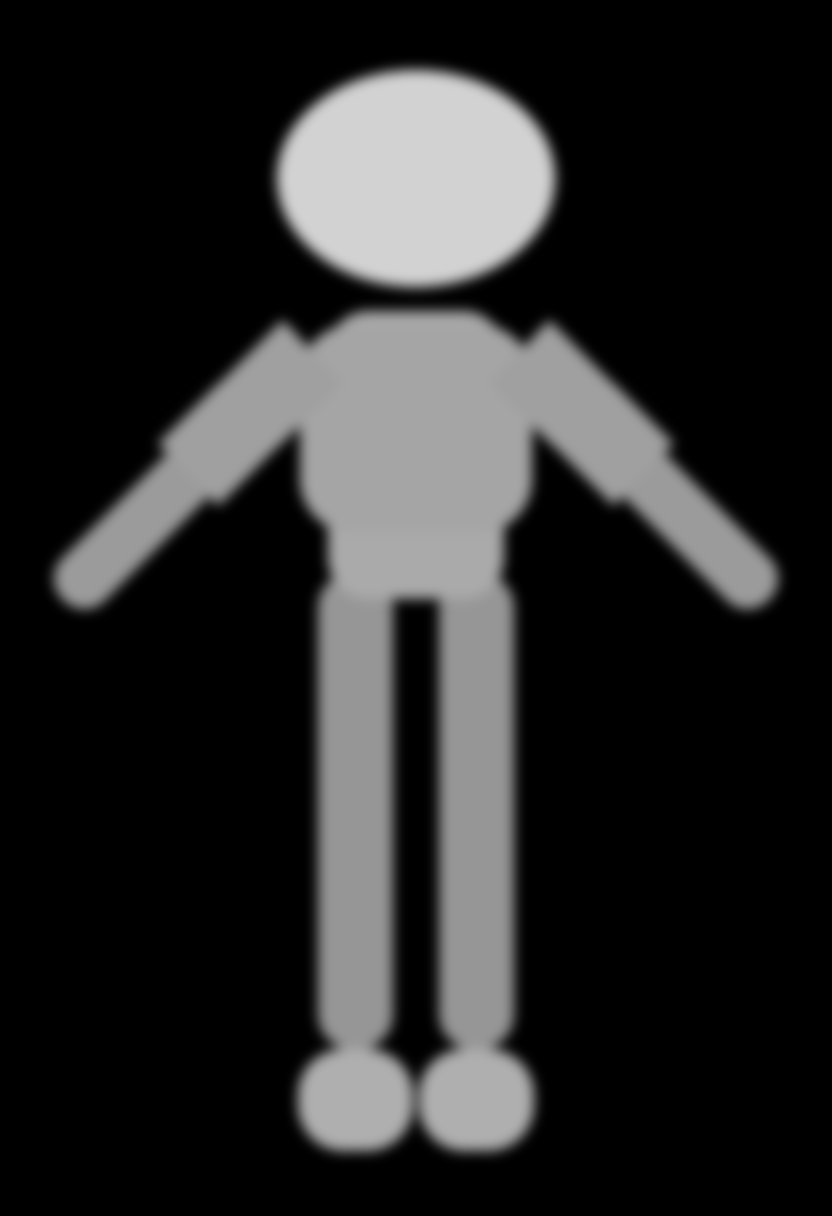
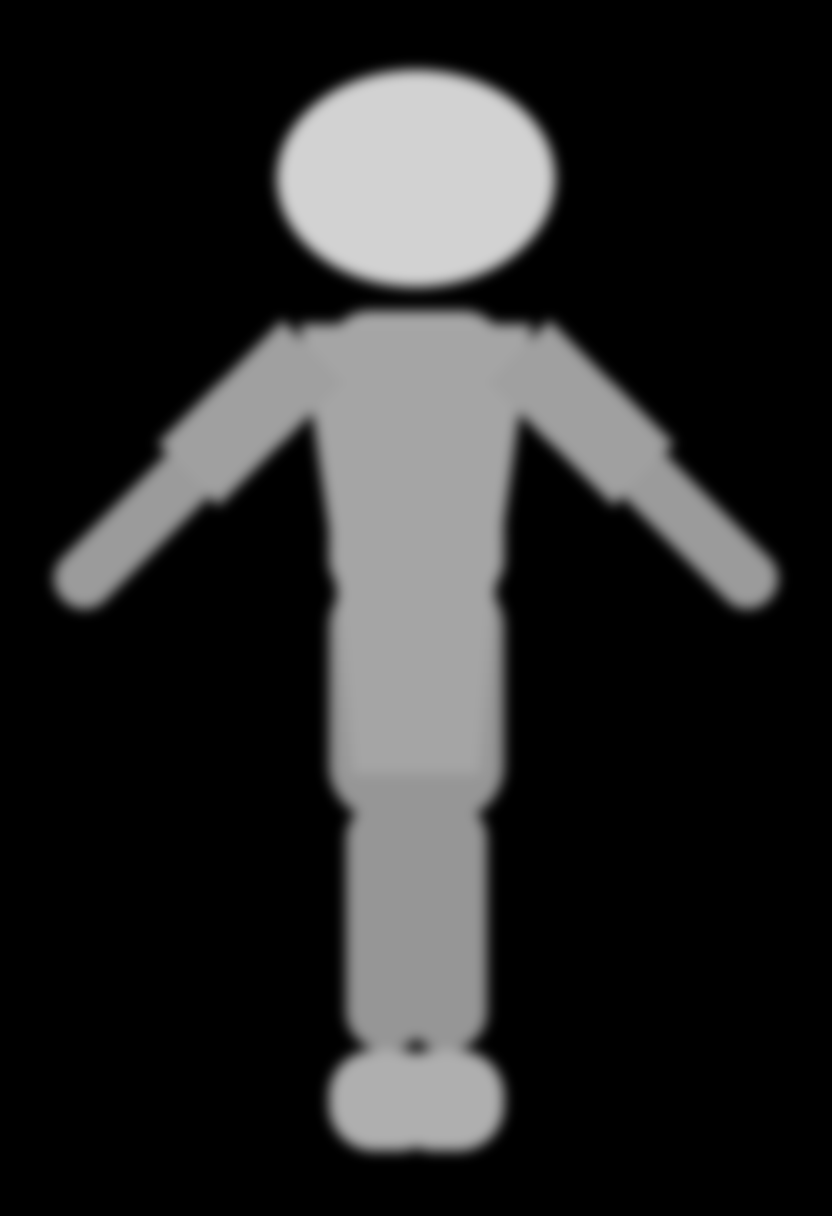
fix(ene): 측면 3/4 뷰 재발의 원인 2건 제거 — 프로필 블록아웃 + 정면 억제 네거티브
v8b 측면이 정측면이 아니라 3/4 로 나온 원인이 둘이었다.

1. make_depth.py 의 side 분기가 front 폴리곤을 폭만 좁혀 재사용해서, 프로필인데도
   A-포즈 팔이 화면을 가로질러 45° 로 뻗어 있었다 → "앞으로 내민 팔"로 읽힌다.
   side 를 프로필 전용 분기로 재작성: 팔은 거의 수직(카메라 쪽 팔이라 재킷보다 밝게),
   뒤통수 볼륨 + 앞쪽 고글 돌출로 앞뒤 비대칭 부여(대칭 실루엣은 어느 쪽이 앞인지
   단서가 없어 모델이 선호하는 3/4 로 떨어진다), 신발 앞코 전방, 재킷은 봉쇄 롱 기장을
   깊이 축으로 반영(뒷자락 플레어).
   front/back 분기는 출력 무변 — 커밋본 스크립트와 해시 대조로 확인(01b17baa 동일).

2. 프롬프트에 정면을 억제하는 항목이 없었다. 뷰 절 교체만으로는 모델의 정면 prior 를
   못 이긴다 → 문서 §3-3-2 에 뷰별 추가 네거티브, §3-3-3 에 뷰 절 가중치(정면 1.3 /
   측면·후면 1.5) 신설. gen_sd_cn.py 가 뷰에 따라 자동으로 이어붙인다.

추가로 §2 절차 2단계("정면 확정본을 reference_only 에 물린다")가 문서에만 있고 구현이
없었다 — v8b 가 의상이 통째로 다른 캐릭터로 나온 직접 원인이다. 두 번째 ControlNet
유닛으로 구현(§3-3-4, 선택 인자). 정면 레퍼런스는 구도까지 끌어오므로 guidance_end 0.55
로 일찍 놓아주고, 뷰가 틀어지면 이 가중치를 먼저 내린다.

depth_ene_front.png 은 커밋본이 스크립트 출력과 1px·명도 17 만큼 어긋나 있었다(블러 6
이 먹는 범위). 재생성해 스크립트와 일치시켰다 — 재현성 목적.

검증: front/back 해시 대조(리팩터 무영향), 문서 파싱·뷰 교체 드라이런, 측면 블록아웃 육안.
이미지 생성은 Forge 기동 후(현재 API 미응답).

diff --git a/Docs/Handoff/PlayerChar_Arcade/control/make_depth.py b/Docs/Handoff/PlayerChar_Arcade/control/make_depth.py
@@ -27,60 +27,93 @@ def cap(x0, y0, x1, y1, r, v):     # rounded capsule
     r = int(max(0, min(r, (x1 - x0) / 2 - 1, (y1 - y0) / 2 - 1)))
     d.rounded_rectangle([x0, y0, x1, y1], radius=r, fill=v)
 
-SIDE = (VIEW == 'side')
-if SIDE:
-    # side view: torso DEPTH becomes the width; head keeps its depth (still big)
-    HEAD_W = cm(41.25)
-    SHO_W  = cm(18.75)
-
-# legs (leggings) - thin, they are the part that must NOT dominate
-lw = cm(11) / 2
-LEG_XS = [0] if SIDE else [-cm(4.5), cm(4.5)]  # hips must NOT exceed the torso (26cm):
-                                               # span = 2*(4.5+8.5) = 26cm exactly
 # taper: thigh 15cm -> calf 11cm. The model drew 6.5/5.8cm from an 11cm capsule,
 # so the blockout has to overshoot the spec, not merely match it.
 TH, CA = cm(17) / 2, cm(12) / 2
 KNEE = HIP + (ANKLE - HIP) * 0.52
-for lx in LEG_XS:
-    x = CX + lx
-    cap(x - TH, HIP, x + TH, KNEE, int(TH), 150)
-    cap(x - CA, KNEE - cm(3), x + CA, ANKLE, int(CA), 150)
-# boots - oversized, wider than the leg
-bw, bh = (cm(30) / 2 if SIDE else cm(17) / 2), cm(15)
-for lx in LEG_XS:
-    x = CX + lx + (cm(5) if SIDE else 0)   # side: boot toe points forward
-    cap(x - bw, SOLE - bh, x + bw, SOLE, int(bh * 0.45), 175)
-# torso
-tw = cm(26) / 2
-cap(CX - tw, NECK, CX + tw, HIP + cm(4), int(cm(6)), 170)
-# jacket - CROPPED: wide at the shoulders, tapering in, ending ABOVE the navel.
-# A wide capsule that stops abruptly near the hip is what made the model draw
-# rectangular flaps jutting out sideways at hip height (user: "하단이 튀어나와 있다").
-# A trapezoid that narrows downward reads as a jacket closing toward the waist.
-jw = SHO_W / 2 * 1.15
-JT = NECK + cm(2)                 # jacket top
-JB = HIP + cm(30)                 # FULLY closed jacket - hem well past mid-thigh (hides bottoms)
-# Keep tapering all the way down. A wide panel that ends abruptly at hip height is
-# exactly what produced the protruding side flaps before; a continuous taper past
-# the hip reads as one closed garment instead.
-d.polygon([(CX - jw,        JT),
-           (CX + jw,        JT),
-           (CX + jw * 0.70, HIP),
-           (CX + jw * 0.55, JB),
-           (CX - jw * 0.55, JB),
-           (CX - jw * 0.70, HIP)], fill=165)
-# arms, A-pose 45 deg
-UA, FA, aw = cm(26), cm(22), cm(9) / 2
-dd = math.sqrt(0.5)
-for s in ([1] if SIDE else [-1, 1]):
-    sx, sy = CX + s * jw * 0.9, NECK + cm(6)
-    ex, ey = sx + s * UA * dd, sy + UA * dd
-    wx, wy = ex + s * FA * dd, ey + FA * dd
-    d.line([(sx, sy), (ex, ey)], fill=160, width=int(cm(13)))     # puffy sleeve
-    d.line([(ex, ey), (wx, wy)], fill=155, width=int(aw * 2))
-    d.ellipse([wx - aw, wy - aw, wx + aw, wy + aw], fill=155)
-# head mass LAST and brightest - this is the item every previous attempt failed
-d.ellipse([CX - HEAD_W / 2, TOP, CX + HEAD_W / 2, CHIN], fill=210)
+JT = NECK + cm(2)                  # jacket top
+JB = HIP + cm(30)                  # FULLY closed jacket - hem well past mid-thigh
+
+if VIEW == 'side':
+    # ---- profile, facing right (+x = forward) ------------------------------
+    # Rebuilt 2026-09-08. The old branch reused the FRONT polygons with narrower
+    # widths, so the A-pose arm still swept 45 deg ACROSS the frame. In a real
+    # profile that arm is edge-on and hangs nearly straight down; the angled
+    # version read as "arm reaching forward" and the model answered with a 3/4
+    # view (v8b). The other half of the fix is front/back asymmetry - a profile
+    # silhouette that is mirror-symmetric carries no cue for which way the
+    # figure faces, so the model falls back to the pose it likes best, 3/4.
+    DEP = cm(18.75)                # torso DEPTH is what the width means here
+    JD  = DEP / 2 * 1.35           # the oversized jacket is deeper than the torso
+    # leg - one column, edge-on
+    cap(CX - TH, HIP, CX + TH, KNEE, int(TH), 150)
+    cap(CX - CA, KNEE - cm(3), CX + CA, ANKLE, int(CA), 150)
+    # boot - 30cm long, toe forward
+    bh = cm(15)
+    cap(CX - cm(10), SOLE - bh, CX + cm(20), SOLE, int(bh * 0.45), 180)
+    # torso
+    cap(CX - DEP / 2, NECK, CX + DEP / 2, HIP + cm(4), int(cm(6)), 170)
+    # jacket - closed and long. Front placket near-vertical, back hem swings out.
+    d.polygon([(CX - JD * 0.95, JT),
+               (CX + JD,        JT),
+               (CX + JD * 0.90, HIP),
+               (CX + JD * 0.80, JB),
+               (CX - JD * 1.00, JB),
+               (CX - JD * 1.10, HIP)], fill=165)
+    # near arm - hangs in front of the torso and drifts forward only slightly.
+    # Brighter than the jacket: in profile it is the camera-side limb.
+    sx, sy = CX + cm(3), NECK + cm(6)
+    ex, ey = sx + cm(4), sy + cm(26) * 0.97
+    wx, wy = ex + cm(4), ey + cm(22) * 0.97
+    d.line([(sx, sy), (ex, ey)], fill=185, width=int(cm(13)))   # puffy sleeve
+    d.line([(ex, ey), (wx, wy)], fill=182, width=int(cm(9)))
+    d.ellipse([wx - cm(4.5), wy - cm(4.5), wx + cm(4.5), wy + cm(4.5)], fill=182)
+    # head - bob. Nape lobe behind, goggle mass in front: back-heavy hair plus a
+    # forward face is the strongest "which way is forward" cue a profile has.
+    hx = CX - cm(1.5)
+    d.ellipse([hx - HEAD_W / 2, CHIN - cm(15), hx + cm(3), CHIN + cm(5)], fill=200)
+    d.ellipse([hx - HEAD_W / 2, TOP, hx + HEAD_W / 2, CHIN], fill=210)
+    d.ellipse([hx + cm(7), CHIN - cm(21), hx + cm(23), CHIN - cm(3)], fill=214)
+else:
+    # ---- front / back ------------------------------------------------------
+    # 'back' is the mirror of 'front' and shares this geometry on purpose:
+    # identical height and scale across the two sheets is what Meshy needs.
+    LEG_XS = [-cm(4.5), cm(4.5)]   # hips must NOT exceed the torso (26cm):
+                                   # span = 2*(4.5+8.5) = 26cm exactly
+    for lx in LEG_XS:
+        x = CX + lx
+        cap(x - TH, HIP, x + TH, KNEE, int(TH), 150)
+        cap(x - CA, KNEE - cm(3), x + CA, ANKLE, int(CA), 150)
+    # boots - oversized, wider than the leg
+    bw, bh = cm(17) / 2, cm(15)
+    for lx in LEG_XS:
+        x = CX + lx
+        cap(x - bw, SOLE - bh, x + bw, SOLE, int(bh * 0.45), 175)
+    # torso
+    tw = cm(26) / 2
+    cap(CX - tw, NECK, CX + tw, HIP + cm(4), int(cm(6)), 170)
+    # jacket - wide at the shoulders, tapering all the way down. A wide panel
+    # that ends abruptly at hip height is what produced the protruding side
+    # flaps before; a continuous taper past the hip reads as one closed garment.
+    jw = SHO_W / 2 * 1.15
+    d.polygon([(CX - jw,        JT),
+               (CX + jw,        JT),
+               (CX + jw * 0.70, HIP),
+               (CX + jw * 0.55, JB),
+               (CX - jw * 0.55, JB),
+               (CX - jw * 0.70, HIP)], fill=165)
+    # arms, A-pose 45 deg
+    UA, FA, aw = cm(26), cm(22), cm(9) / 2
+    dd = math.sqrt(0.5)
+    for s in [-1, 1]:
+        sx, sy = CX + s * jw * 0.9, NECK + cm(6)
+        ex, ey = sx + s * UA * dd, sy + UA * dd
+        wx, wy = ex + s * FA * dd, ey + FA * dd
+        d.line([(sx, sy), (ex, ey)], fill=160, width=int(cm(13)))     # puffy sleeve
+        d.line([(ex, ey), (wx, wy)], fill=155, width=int(aw * 2))
+        d.ellipse([wx - aw, wy - aw, wx + aw, wy + aw], fill=155)
+    # head mass LAST and brightest - the item every previous attempt failed
+    d.ellipse([CX - HEAD_W / 2, TOP, CX + HEAD_W / 2, CHIN], fill=210)
 
 img = img.filter(ImageFilter.GaussianBlur(6))
 out = sys.argv[1] if len(sys.argv) > 1 else ('depth_ene_%s.png' % VIEW)
@@ -88,5 +121,8 @@ img.convert('RGB').save(out)
 print('view      :', VIEW)
 print('saved     :', out)
 print('heads     : %.2f' % (FIG / HEAD_H))
-print('head/shldr: %.2f  (target 1.35)' % (HEAD_W / SHO_W))
+if VIEW == 'side':
+    print('head/depth: %.2f  (hair mass vs torso depth)' % (HEAD_W / cm(18.75)))
+else:
+    print('head/shldr: %.2f  (target 1.35)' % (HEAD_W / SHO_W))
 print('leg pct   : %.1f%%' % ((SOLE - HIP) / FIG * 100))

diff --git a/Docs/Handoff/PlayerChar_Arcade/control/gen_sd_cn.py b/Docs/Handoff/PlayerChar_Arcade/control/gen_sd_cn.py
@@ -1,18 +1,34 @@
-# ENE turnaround - txt2img with ControlNet (OpenPose skeleton) via Forge REST API.
+# ENE turnaround - txt2img with ControlNet (depth blockout) via Forge REST API.
 # Prompt is READ FROM THE DOC so the doc stays the single source of truth.
+#
+#   python gen_sd_cn.py <depth.png> <tag> <weight> <seed> <width> <view> [ref.png|-] [ref_w]
+#
 import io, os, re, sys, json, base64, urllib.request, datetime
 
 DOC = r'E:\Git_Project\FPSRoguelite\Docs\Handoff\PlayerChar_Arcade\ImagePrompt_v5_SD.txt'
 OUT = r'E:\Git_Project\FPSRoguelite\Docs\Handoff\PlayerChar_Arcade\sd_out'
 API = 'http://127.0.0.1:7860'
 
-def block(tag, nxt):
-    s = io.open(DOC, encoding='utf-8').read()
-    i = s.index(tag); j = s.index(nxt, i); b = s[i:j]
-    return b[b.index('```') + 3: b.rindex('```')].strip()
+DOCTEXT = io.open(DOC, encoding='utf-8').read()
 
-pos = ' '.join(l.strip() for l in block('### 3-1.', '### 3-2.').splitlines() if l.strip())
-neg = ' '.join(l.strip() for l in block('### 3-2.', '### 3-3.').splitlines() if l.strip())
+def flat(s):
+    return ' '.join(l.strip() for l in s.strip().splitlines() if l.strip())
+
+def block(tag, nxt):
+    i = DOCTEXT.index(tag); j = DOCTEXT.index(nxt, i); b = DOCTEXT[i:j]
+    return flat(b[b.index('```') + 3: b.rindex('```')])
+
+def fence_after(marker, start=0):
+    i = DOCTEXT.index(marker, start)
+    a = DOCTEXT.index('```', i) + 3
+    return flat(DOCTEXT[a: DOCTEXT.index('```', a)])
+
+pos = block('### 3-1.', '### 3-2.')
+neg = block('### 3-2.', '### 3-3.')
+
+# per-view extra negatives (doc 3-3-2). Swapping the view clause alone does not
+# beat the model's front-facing prior - the front has to be suppressed too.
+VIEW_NEG_MARK = {'side': u'**\uce21\uba74(`side`)**', 'back': u'**\ud6c4\uba74(`back`)**'}
 
 def post(path, payload, timeout=1200):
     req = urllib.request.Request(API + path, data=json.dumps(payload).encode('utf-8'),
@@ -35,13 +51,23 @@ weight    = float(sys.argv[3]) if len(sys.argv) > 3 else 1.0
 seed      = int(sys.argv[4]) if len(sys.argv) > 4 else 1234567
 width     = int(sys.argv[5]) if len(sys.argv) > 5 else 832
 view      = (sys.argv[6] if len(sys.argv) > 6 else 'front').lower()
+ref_path  = sys.argv[7] if len(sys.argv) > 7 else '-'
+ref_w     = float(sys.argv[8]) if len(sys.argv) > 8 else 0.45
 
 # swap ONLY the view clause; every other token stays byte-identical across views
-# (that is what keeps the three sheets the same character)
+# (that is what keeps the three sheets the same character). Side/back get 1.5:
+# they run against the model's prior, so front's 1.3 is not enough (doc 3-3-3).
 if view != 'front':
-    assert VIEWS['front'] in pos, 'front view clause not found in prompt'
-    pos = pos.replace(VIEWS['front'], VIEWS[view])
-print('view     :', view)
+    m = re.search(r'\(front view, facing viewer:[0-9.]+\)', pos)
+    if m:
+        pos = pos[:m.start()] + '(%s:1.5)' % VIEWS[view] + pos[m.end():]
+    else:
+        assert VIEWS['front'] in pos, 'front view clause not found in prompt'
+        pos = pos.replace(VIEWS['front'], '(%s:1.5)' % VIEWS[view])
+    neg = neg + ', ' + fence_after(VIEW_NEG_MARK[view], DOCTEXT.index('### 3-3-2.'))
+
+print('view     :', view, '->', VIEWS[view])
+print('view neg :', 'appended' if view != 'front' else '(none)')
 
 with open(pose_path, 'rb') as f:
     pose_b64 = base64.b64encode(f.read()).decode('ascii')
@@ -54,10 +80,10 @@ model = union[0]
 print('cn model :', model)
 print('weight   :', weight)
 
-cn_unit = {
+units = [{
     'enabled': True,
     'image': pose_b64,
-    'module': 'None',          # skeleton is already a pose map - do NOT preprocess
+    'module': 'None',          # blockout is already a depth map - do NOT preprocess
     'model': model,
     'weight': weight,
     'resize_mode': 'Just Resize',
@@ -65,7 +91,34 @@ cn_unit = {
     'pixel_perfect': True,
     'guidance_start': 0.0,
     'guidance_end': 0.85,      # release near the end so style/detail can finish
-}
+}]
+
+# reference_only - doc 2 step 2, finally implemented (doc 3-3-4). Without it the
+# side/back sheets came back as a different outfit entirely (v8b). It cuts both
+# ways: feeding a FRONT reference also drags the composition back toward front,
+# so it releases early (0.55) and its weight is the first dial to drop.
+if ref_path not in ('-', '', 'none'):
+    mods = get('/controlnet/module_list')['module_list']
+    pick = (next((m for m in mods if m.lower() == 'reference_only'), None)
+            or next((m for m in mods if 'reference' in m.lower()), None))
+    if not pick:
+        print('ERROR: reference_only module not available:', mods); sys.exit(1)
+    with open(ref_path, 'rb') as f:
+        ref_b64 = base64.b64encode(f.read()).decode('ascii')
+    units.append({
+        'enabled': True,
+        'image': ref_b64,
+        'module': pick,
+        'model': 'None',
+        'weight': ref_w,
+        'resize_mode': 'Just Resize',
+        'control_mode': 'Balanced',
+        'pixel_perfect': True,
+        'guidance_start': 0.0,
+        'guidance_end': 0.55,
+        'threshold_a': 0.5,    # Forge: reference "Style Fidelity" (Balanced only)
+    })
+    print('ref unit : %s  w=%s  %s' % (pick, ref_w, os.path.basename(ref_path)))
 
 payload = {
     'prompt': pos, 'negative_prompt': neg,
@@ -73,7 +126,7 @@ payload = {
     'steps': 30, 'cfg_scale': 5.0,
     'sampler_name': 'Euler a', 'scheduler': 'Automatic',
     'seed': seed, 'batch_size': 1, 'n_iter': 1, 'save_images': False,
-    'alwayson_scripts': {'controlnet': {'args': [cn_unit]}},
+    'alwayson_scripts': {'controlnet': {'args': units}},
 }
 r = post('/sdapi/v1/txt2img', payload)
 
